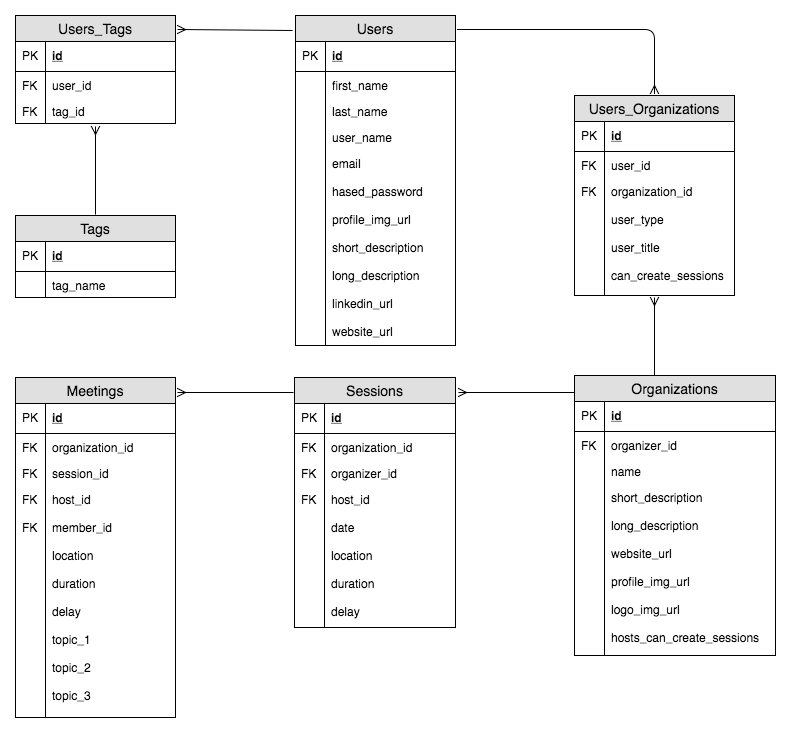
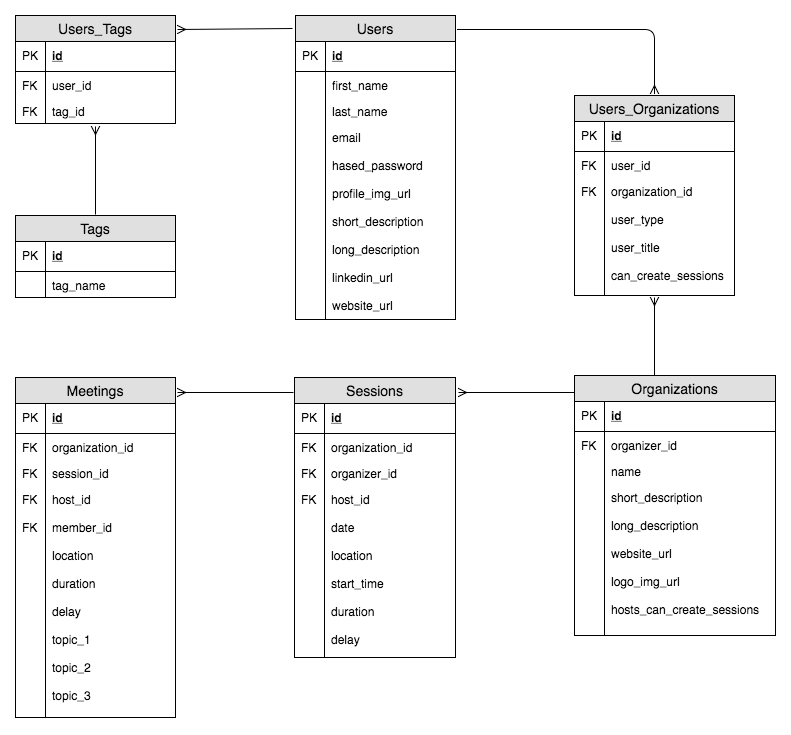
removed user_name

Changed region(s): [[0.3944, 0.1796, 0.5461, 0.4789], [0.7585, 0.7782, 0.9709, 0.898], [0.3944, 0.7782, 0.4855, 0.898]]

diff --git a/db/seeds/01_users.js b/db/seeds/01_users.js
@@ -8,7 +8,6 @@ exports.seed = (knex, Promise) => {
           id: 1,
           first_name: 'Nick',
           last_name: 'Ellingson',
-          user_name: 'nick.ellingson',
           email: 'nick.ellingson@email.email',
           hashed_password: `${bcrypt.hashSync('test')}`,
           profile_img_url: 'https://media.licdn.com/dms/image/C4D03AQEIVGkLqZ627A/profile-displayphoto-shrink_800_800/0?e=1539216000&v=beta&t=cVYJrsy9OeOWLFyEf0qT3e3MEyj8g3MoQmG9xs8Aj40',
@@ -21,7 +20,6 @@ exports.seed = (knex, Promise) => {
           id: 2,
           first_name: 'Katie',
           last_name: 'Rice',
-          user_name: 'katie.rice',
           email: 'katie.rice@email.email',
           hashed_password: `${bcrypt.hashSync('test')}`,
           profile_img_url: 'https://www.allianceofangels.com/wp-content/uploads/2016/04/Katie-500x500.jpg',
@@ -34,7 +32,6 @@ exports.seed = (knex, Promise) => {
           id: 3,
           first_name: 'Audie',
           last_name: ' Koss',
-          user_name: 'audie.koss',
           email: 'audie.koss@email.email',
           hashed_password: `${bcrypt.hashSync('test')}`,
           profile_img_url: 'https://avataaars.io/?avatarStyle=Circle&topType=LongHairNotTooLong&accessoriesType=Blank&hairColor=PastelPink&facialHairType=Blank&facialHairColor=BlondeGolden&clotheType=GraphicShirt&clotheColor=Black&graphicType=Resist&eyeType=WinkWacky&eyebrowType=SadConcernedNatural&mouthType=Default&skinColor=DarkBrown',
@@ -47,7 +44,6 @@ exports.seed = (knex, Promise) => {
           id: 4,
           first_name: 'Faustino',
           last_name: 'King',
-          user_name: 'faus.king',
           email: 'faus.king@email.email',
           hashed_password: `${bcrypt.hashSync('test')}`,
           profile_img_url: 'https://avataaars.io/?avatarStyle=Circle&topType=NoHair&accessoriesType=Sunglasses&facialHairType=BeardMedium&facialHairColor=Red&clotheType=BlazerSweater&eyeType=Dizzy&eyebrowType=Default&mouthType=Default&skinColor=Brown',
@@ -60,7 +56,6 @@ exports.seed = (knex, Promise) => {
           id: 5,
           first_name: 'Katelin',
           last_name: ' Mertz',
-          user_name: 'ketelin.mertz',
           email: 'ketelin.mertz@email.email',
           hashed_password: `${bcrypt.hashSync('test')}`,
           profile_img_url: 'https://avataaars.io/?avatarStyle=Circle&topType=LongHairStraightStrand&accessoriesType=Round&hairColor=Red&facialHairType=Blank&facialHairColor=Blonde&clotheType=CollarSweater&clotheColor=Blue01&eyeType=Squint&eyebrowType=RaisedExcited&mouthType=Smile&skinColor=Pale',
@@ -73,7 +68,6 @@ exports.seed = (knex, Promise) => {
           id: 6,
           first_name: 'Telly ',
           last_name: 'Rohan',
-          user_name: 'telly.rohan',
           email: 'telly.rohan@email.email',
           hashed_password: `${bcrypt.hashSync('test')}`,
           profile_img_url: 'https://avataaars.io/?avatarStyle=Circle&topType=ShortHairDreads01&accessoriesType=Prescription02&hairColor=Auburn&facialHairType=BeardLight&facialHairColor=Black&clotheType=BlazerSweater&eyeType=Side&eyebrowType=SadConcernedNatural&mouthType=Sad&skinColor=Black',
@@ -86,7 +80,6 @@ exports.seed = (knex, Promise) => {
           id: 7,
           first_name: 'Rocky',
           last_name: 'Schuster',
-          user_name: 'rocky.shuster',
           email: 'rocky.shuster@email.email',
           hashed_password: `${bcrypt.hashSync('test')}`,
           profile_img_url: 'https://avataaars.io/?avatarStyle=Circle&topType=LongHairShavedSides&accessoriesType=Prescription01&hairColor=Brown&facialHairType=BeardLight&facialHairColor=Blonde&clotheType=Hoodie&clotheColor=Black&graphicType=Resist&eyeType=WinkWacky&eyebrowType=UpDownNatural&mouthType=Smile&skinColor=Pale',
@@ -99,7 +92,6 @@ exports.seed = (knex, Promise) => {
           id: 8,
           first_name: 'Alford',
           last_name: 'Kirlin',
-          user_name: 'alford.kirlin',
           email: 'alford.kirlin@email.email',
           hashed_password: `${bcrypt.hashSync('test')}`,
           profile_img_url: 'https://avataaars.io/?avatarStyle=Circle&topType=WinterHat3&accessoriesType=Kurt&hatColor=Red&facialHairType=BeardLight&facialHairColor=BrownDark&clotheType=GraphicShirt&clotheColor=PastelBlue&graphicType=Skull&eyeType=Surprised&eyebrowType=RaisedExcited&mouthType=Smile&skinColor=Pale',
@@ -112,7 +104,6 @@ exports.seed = (knex, Promise) => {
           id: 9,
           first_name: 'Titus',
           last_name: 'Pfannerstill',
-          user_name: 'titus.pfannerstill',
           email: 'titus.pfannerstill@email.email',
           hashed_password: `${bcrypt.hashSync('test')}`,
           profile_img_url: 'https://avataaars.io/?avatarStyle=Circle&topType=WinterHat4&accessoriesType=Prescription01&hatColor=Blue03&facialHairType=Blank&facialHairColor=BlondeGolden&clotheType=Overall&clotheColor=PastelBlue&eyeType=Dizzy&eyebrowType=UpDownNatural&mouthType=Disbelief&skinColor=Yellow',

diff --git a/db/migrations/20180807162355_users.js b/db/migrations/20180807162355_users.js
@@ -3,7 +3,6 @@ exports.up = function(knex, Promise) {
     table.increments();
     table.string('first_name').notNullable();
     table.string('last_name').notNullable();
-    table.string('user_name').notNullable();
     table.string('email').notNullable();
     table.string('hashed_password').notNullable();
     table.text('profile_img_url').notNullable().defaultTo('https://t4.ftcdn.net/jpg/02/15/84/43/240_F_215844325_ttX9YiIIyeaR7Ne6EaLLjMAmy4GvPC69.jpg');
